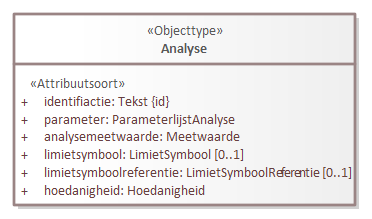
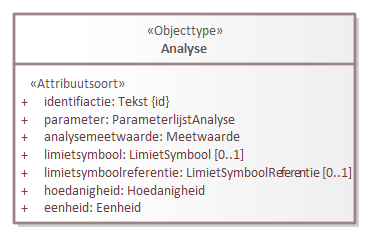
Conceptualmodel-MilieuhygienischbodemonderzoekSAD-0.2-1-20230126-20230516-114102

diff --git a/data/SAD-cat.msword.html b/data/SAD-cat.msword.html
@@ -15,7 +15,7 @@
    <body>
       <p>Conceptual model/Milieuhygienisch bodemonderzoek SAD/20230126</p>
       <p>Imvertor: 2.0.0</p>
-      <p>Model release: Conceptualmodel-MilieuhygienischbodemonderzoekSAD-0.2-1-20230126-20230511-090358</p>
+      <p>Model release: Conceptualmodel-MilieuhygienischbodemonderzoekSAD-0.2-1-20230126-20230516-114102</p>
       <hr>
       <section>
          <h1>Artikel 1 Definitie van registratieobject, entiteiten en attributen</h1>
@@ -65,7 +65,7 @@
          <section>
             <h2>Het domeinmodel</h2>
             <section id="">
-               <div class="imageinfo overview"><img src="Images/EAID_FABA90F8_223C_433d_BAE3_74F87B3DC220.png" usemap="#imagemap-EAID_FABA90F8_223C_433d_BAE3_74F87B3DC220" alt="Diagram &#xA;                        &#xA;                     "><map name="imagemap-EAID_FABA90F8_223C_433d_BAE3_74F87B3DC220"><area shape="rect" alt="Analyseproces" coords="831,2101,1002,2223" href="#graph_EAID_89FCADC6_B091_492b_94BD_37324C7637EA"><area shape="rect" alt="Analyse" coords="303,2066,645,2258" href="#graph_EAID_AE9CD58D_588C_44cf_A7B7_09EDB181B001"><area shape="rect" alt="Grondwateranalyse" coords="1385,1474,1610,1582" href="#graph_EAID_50237BC0_6FD9_482a_841F_A44137C00FCA"><area shape="rect" alt="Grondmonsteranalyse" coords="393,1124,550,1228" href="#graph_EAID_DFC0DB4F_7DC8_4920_917A_907819C6EC19"><area shape="rect" alt="Boorprofiel" coords="783,1266,1093,1386" href="#graph_EAID_6CF3D55E_1BD5_4108_BEA5_8B69EB2D2097"><area shape="rect" alt="Boorbeschrijving" coords="800,1078,1075,1187" href="#graph_EAID_080E44E6_527C_42db_BCF3_7400257377C2"><area shape="rect" alt="Veldmeting" coords="1831,1239,2084,1378" href="#graph_EAID_C348E314_A61B_43a0_AFED_083DA812EC5F"><area shape="rect" alt="Veldwaarneming" coords="1830,1043,2082,1187" href="#graph_EAID_A3A8A9F5_B12D_47e9_9D67_F12687999F0D"><area shape="rect" alt="Mengmonsteranalyse" coords="14,812,171,933" href="#graph_EAID_E7A3C99D_3348_4875_9BD5_4E0481E72C54"><area shape="rect" alt="Grondwatermonstername" coords="1356,1101,1639,1239" href="#graph_EAID_24B6DB20_4EA3_453f_B195_E642F22CC27C"><area shape="rect" alt="Grondmonstername" coords="344,776,602,969" href="#graph_EAID_8A8D6A0E_DAF9_415a_9AE7_09155A2C5869"><area shape="rect" alt="Peilbuis" coords="1296,774,1699,972" href="#graph_EAID_0075B243_E663_4ee7_9154_9D5DE12CCB21"><area shape="rect" alt="Bodemlaag" coords="790,1474,1085,1707" href="#graph_EAID_88CF9E45_3E0E_40da_96C1_2CDD80B69F6F"><area shape="rect" alt="Boring" coords="716,746,1152,998" href="#graph_EAID_40FFF5B9_99C5_4c21_9D72_A3D1DD3C857F"><area shape="rect" alt="Registratieobject" coords="782,7,1090,181" href="#graph_EAID_67DBE718_38E0_4ead_8649_72EA0B4A2355"><area shape="rect" alt="Bodemonderzoek" coords="669,262,1202,602" href="#graph_EAID_ABAADB49_C747_4775_A739_CC832CAD59F1"></map><p><b>Domeinmodel milieuhygienisch bodemonderzoek</b></p>
+               <div class="imageinfo overview"><img src="Images/EAID_FABA90F8_223C_433d_BAE3_74F87B3DC220.png" usemap="#imagemap-EAID_FABA90F8_223C_433d_BAE3_74F87B3DC220" alt="Diagram &#xA;                        &#xA;                     "><map name="imagemap-EAID_FABA90F8_223C_433d_BAE3_74F87B3DC220"><area shape="rect" alt="Analyseproces" coords="831,2111,1002,2232" href="#graph_EAID_89FCADC6_B091_492b_94BD_37324C7637EA"><area shape="rect" alt="Analyse" coords="303,2066,645,2276" href="#graph_EAID_AE9CD58D_588C_44cf_A7B7_09EDB181B001"><area shape="rect" alt="Grondwateranalyse" coords="1385,1474,1610,1582" href="#graph_EAID_50237BC0_6FD9_482a_841F_A44137C00FCA"><area shape="rect" alt="Grondmonsteranalyse" coords="393,1124,550,1228" href="#graph_EAID_DFC0DB4F_7DC8_4920_917A_907819C6EC19"><area shape="rect" alt="Boorprofiel" coords="783,1266,1093,1386" href="#graph_EAID_6CF3D55E_1BD5_4108_BEA5_8B69EB2D2097"><area shape="rect" alt="Boorbeschrijving" coords="800,1078,1075,1187" href="#graph_EAID_080E44E6_527C_42db_BCF3_7400257377C2"><area shape="rect" alt="Veldmeting" coords="1831,1239,2084,1378" href="#graph_EAID_C348E314_A61B_43a0_AFED_083DA812EC5F"><area shape="rect" alt="Veldwaarneming" coords="1830,1043,2082,1187" href="#graph_EAID_A3A8A9F5_B12D_47e9_9D67_F12687999F0D"><area shape="rect" alt="Mengmonsteranalyse" coords="14,812,171,933" href="#graph_EAID_E7A3C99D_3348_4875_9BD5_4E0481E72C54"><area shape="rect" alt="Grondwatermonstername" coords="1356,1101,1639,1239" href="#graph_EAID_24B6DB20_4EA3_453f_B195_E642F22CC27C"><area shape="rect" alt="Grondmonstername" coords="344,776,602,969" href="#graph_EAID_8A8D6A0E_DAF9_415a_9AE7_09155A2C5869"><area shape="rect" alt="Peilbuis" coords="1296,774,1699,972" href="#graph_EAID_0075B243_E663_4ee7_9154_9D5DE12CCB21"><area shape="rect" alt="Bodemlaag" coords="790,1474,1085,1707" href="#graph_EAID_88CF9E45_3E0E_40da_96C1_2CDD80B69F6F"><area shape="rect" alt="Boring" coords="716,746,1152,998" href="#graph_EAID_40FFF5B9_99C5_4c21_9D72_A3D1DD3C857F"><area shape="rect" alt="Registratieobject" coords="782,7,1090,181" href="#graph_EAID_67DBE718_38E0_4ead_8649_72EA0B4A2355"><area shape="rect" alt="Bodemonderzoek" coords="669,262,1202,602" href="#graph_EAID_ABAADB49_C747_4775_A739_CC832CAD59F1"></map><p><b>Domeinmodel milieuhygienisch bodemonderzoek</b></p>
                </div>
             </section>
          </section>
@@ -578,7 +578,7 @@
                            </tr>
                         </tbody>
                      </table>
-                     </section><a class="anchor" id="detail_d94218e3450"></a><section id="detail_d94218e3450">
+                     </section><a class="anchor" id="detail_d94655e3450"></a><section id="detail_d94655e3450">
                      <h4>  registratiegeschiedenis</h4>
                      <table style="width: 100%;">
                         <colgroup style="width: 30%;"></colgroup>
@@ -611,7 +611,7 @@
                            </tr>
                         </tbody>
                      </table>
-                  </section><a class="anchor" id="detail_d94218e3635"></a><section id="detail_d94218e3635">
+                  </section><a class="anchor" id="detail_d94655e3635"></a><section id="detail_d94655e3635">
                      <h4>  gestandaardiseerde locatie bodemonderzoek</h4>
                      <table style="width: 100%;">
                         <colgroup style="width: 30%;"></colgroup>
@@ -654,7 +654,7 @@
                            </tr>
                         </tbody>
                      </table>
-                  </section><a class="anchor" id="detail_d94218e3869"></a><section id="detail_d94218e3869">
+                  </section><a class="anchor" id="detail_d94655e3869"></a><section id="detail_d94655e3869">
                      <h4>  rapport</h4>
                      <table style="width: 100%;">
                         <colgroup style="width: 30%;"></colgroup>
@@ -1845,7 +1845,7 @@
                            </tr>
                         </tbody>
                      </table>
-                     </section><a class="anchor" id="detail_d94218e8500"></a><section id="detail_d94218e8500">
+                     </section><a class="anchor" id="detail_d94655e8500"></a><section id="detail_d94655e8500">
                      <h4>  gestandaardiseerde locatie boring</h4>
                      <table style="width: 100%;">
                         <colgroup style="width: 30%;"></colgroup>
@@ -1879,7 +1879,7 @@
                            </tr>
                         </tbody>
                      </table>
-                  </section><a class="anchor" id="detail_d94218e8685"></a><section id="detail_d94218e8685">
+                  </section><a class="anchor" id="detail_d94655e8685"></a><section id="detail_d94655e8685">
                      <h4>  aangeleverde verticale positie</h4>
                      <table style="width: 100%;">
                         <colgroup style="width: 30%;"></colgroup>
@@ -2311,7 +2311,7 @@
                            <tr>
                               <th>&nbsp;&nbsp;Naam</th>
                               <td>Meetwaarde 
-                                 </td>
+                                 3.3</td>
                            </tr>
                            <tr>
                               <th>&nbsp;&nbsp;Eenheid</th>
@@ -2807,7 +2807,7 @@
                            </tr>
                         </tbody>
                      </table>
-                     </section><a class="anchor" id="detail_d94218e11677"></a><section id="detail_d94218e11677">
+                     </section><a class="anchor" id="detail_d94655e11686"></a><section id="detail_d94655e11686">
                      <h4>  grond</h4>
                      <table style="width: 100%;">
                         <colgroup style="width: 30%;"></colgroup>
@@ -2840,7 +2840,7 @@
                            </tr>
                         </tbody>
                      </table>
-                  </section><a class="anchor" id="detail_d94218e11862"></a><section id="detail_d94218e11862">
+                  </section><a class="anchor" id="detail_d94655e11871"></a><section id="detail_d94655e11871">
                      <h4>  kleur</h4>
                      <table style="width: 100%;">
                         <colgroup style="width: 30%;"></colgroup>
@@ -2873,7 +2873,7 @@
                            </tr>
                         </tbody>
                      </table>
-                  </section><a class="anchor" id="detail_d94218e12047"></a><section id="detail_d94218e12047">
+                  </section><a class="anchor" id="detail_d94655e12056"></a><section id="detail_d94655e12056">
                      <h4>  bijzonderheid</h4>
                      <table style="width: 100%;">
                         <colgroup style="width: 30%;"></colgroup>
@@ -4231,7 +4231,7 @@
                            </tr>
                         </tbody>
                      </table>
-                     </section><a class="anchor" id="detail_d94218e17335"></a><section id="detail_d94218e17335">
+                     </section><a class="anchor" id="detail_d94655e17344"></a><section id="detail_d94655e17344">
                      <h4>  aangeleverde verticale positie</h4>
                      <table style="width: 100%;">
                         <colgroup style="width: 30%;"></colgroup>
@@ -4637,7 +4637,7 @@
                            </tr>
                         </tbody>
                      </table>
-                     </section><a class="anchor" id="detail_d94218e18790"></a><section id="detail_d94218e18790">
+                     </section><a class="anchor" id="detail_d94655e18799"></a><section id="detail_d94655e18799">
                      <h4>  kleur</h4>
                      <table style="width: 100%;">
                         <colgroup style="width: 30%;"></colgroup>
@@ -4897,7 +4897,7 @@
                   </section>
                </section><a class="anchor" id="graph_EAID_AE9CD58D_588C_44cf_A7B7_09EDB181B001"></a><a class="anchor" id="global_class_Model_Analyse"></a><section id="global_class_Model_Analyse">
                   <h3>   Analyse</h3>
-                  <div class="imageinfo "><img src="Images/EAID_824E65FB_FE5D_4caf_BB20_F5A295A0CD8B.png" usemap="#imagemap-EAID_824E65FB_FE5D_4caf_BB20_F5A295A0CD8B" alt="Diagram "><map name="imagemap-EAID_824E65FB_FE5D_4caf_BB20_F5A295A0CD8B"><area shape="rect" alt="Analyse" coords="14,14,356,206" href="#graph_EAID_AE9CD58D_588C_44cf_A7B7_09EDB181B001"></map><p><b></b></p>
+                  <div class="imageinfo "><img src="Images/EAID_824E65FB_FE5D_4caf_BB20_F5A295A0CD8B.png" usemap="#imagemap-EAID_824E65FB_FE5D_4caf_BB20_F5A295A0CD8B" alt="Diagram "><map name="imagemap-EAID_824E65FB_FE5D_4caf_BB20_F5A295A0CD8B"><area shape="rect" alt="Analyse" coords="14,14,356,224" href="#graph_EAID_AE9CD58D_588C_44cf_A7B7_09EDB181B001"></map><p><b></b></p>
                   </div>
                   <table style="width: 100%;">
                      <colgroup style="width: 30%;"></colgroup>
@@ -5236,6 +5236,48 @@
                                     in Stikstof' bij de parameter Nitraat (NO3). De waarde 'opgeloste fractie' of de korrelgroottefractie
                                     zijn voorbeelden van fracties van een parameter.</p>
                                  </td>
+                           </tr>
+                        </tbody>
+                     </table>
+                     </section><a class="anchor" id="detail_attribute_Model_Analyse_eenheid"></a><section id="detail_attribute_Model_Analyse_eenheid">
+                     <h4>  eenheid</h4>
+                     
+                     <table style="width: 100%;">
+                        <colgroup style="width: 30%;"></colgroup>
+                        <colgroup style="width: 70%;"></colgroup>
+                        <tbody>
+                           <tr>
+                              <th>Type gegeven</th>
+                              <td>Attribuut van Analyse</td>
+                           </tr>
+                           <tr>
+                              <th>Definitie</th>
+                              <td>
+                                 
+                                 <p>De dimensie van de grootheid waarin een parameter wordt uitgedrukt.</p>
+                                 </td>
+                           </tr>
+                           <tr>
+                              <th>Juridische status</th>
+                              <td>Authentiek</td>
+                           </tr>
+                           <tr>
+                              <th>Kardinaliteit</th>
+                              <td>1</td>
+                           </tr>
+                           <tr>
+                              <th>Domein</th>
+                              <td></td>
+                           </tr>
+                           <tr>
+                              <th>&nbsp;&nbsp;Naam</th>
+                              <td><a class="link" href="#detail_class_Model_Eenheid">
+                                    Eenheid
+                                    </a></td>
+                           </tr>
+                           <tr>
+                              <th>&nbsp;&nbsp;Type</th>
+                              <td>Waardelijst uitbreidbaar</td>
                            </tr>
                         </tbody>
                      </table>

diff --git a/data/SAD-cat.respec.html b/data/SAD-cat.respec.html
@@ -43,7 +43,7 @@
       </section>
    <section id="">
       <h2>Het domeinmodel   </h2>
-      <div class="imageinfo overview"><img src="data/Images/EAID_FABA90F8_223C_433d_BAE3_74F87B3DC220.png" usemap="#imagemap-EAID_FABA90F8_223C_433d_BAE3_74F87B3DC220" alt="Diagram &#xA;                        &#xA;                     "><map name="imagemap-EAID_FABA90F8_223C_433d_BAE3_74F87B3DC220"><area shape="rect" alt="Analyseproces" coords="831,2101,1002,2223" href="#graph_EAID_89FCADC6_B091_492b_94BD_37324C7637EA"><area shape="rect" alt="Analyse" coords="303,2066,645,2258" href="#graph_EAID_AE9CD58D_588C_44cf_A7B7_09EDB181B001"><area shape="rect" alt="Grondwateranalyse" coords="1385,1474,1610,1582" href="#graph_EAID_50237BC0_6FD9_482a_841F_A44137C00FCA"><area shape="rect" alt="Grondmonsteranalyse" coords="393,1124,550,1228" href="#graph_EAID_DFC0DB4F_7DC8_4920_917A_907819C6EC19"><area shape="rect" alt="Boorprofiel" coords="783,1266,1093,1386" href="#graph_EAID_6CF3D55E_1BD5_4108_BEA5_8B69EB2D2097"><area shape="rect" alt="Boorbeschrijving" coords="800,1078,1075,1187" href="#graph_EAID_080E44E6_527C_42db_BCF3_7400257377C2"><area shape="rect" alt="Veldmeting" coords="1831,1239,2084,1378" href="#graph_EAID_C348E314_A61B_43a0_AFED_083DA812EC5F"><area shape="rect" alt="Veldwaarneming" coords="1830,1043,2082,1187" href="#graph_EAID_A3A8A9F5_B12D_47e9_9D67_F12687999F0D"><area shape="rect" alt="Mengmonsteranalyse" coords="14,812,171,933" href="#graph_EAID_E7A3C99D_3348_4875_9BD5_4E0481E72C54"><area shape="rect" alt="Grondwatermonstername" coords="1356,1101,1639,1239" href="#graph_EAID_24B6DB20_4EA3_453f_B195_E642F22CC27C"><area shape="rect" alt="Grondmonstername" coords="344,776,602,969" href="#graph_EAID_8A8D6A0E_DAF9_415a_9AE7_09155A2C5869"><area shape="rect" alt="Peilbuis" coords="1296,774,1699,972" href="#graph_EAID_0075B243_E663_4ee7_9154_9D5DE12CCB21"><area shape="rect" alt="Bodemlaag" coords="790,1474,1085,1707" href="#graph_EAID_88CF9E45_3E0E_40da_96C1_2CDD80B69F6F"><area shape="rect" alt="Boring" coords="716,746,1152,998" href="#graph_EAID_40FFF5B9_99C5_4c21_9D72_A3D1DD3C857F"><area shape="rect" alt="Registratieobject" coords="782,7,1090,181" href="#graph_EAID_67DBE718_38E0_4ead_8649_72EA0B4A2355"><area shape="rect" alt="Bodemonderzoek" coords="669,262,1202,602" href="#graph_EAID_ABAADB49_C747_4775_A739_CC832CAD59F1"></map><p><b>Domeinmodel milieuhygienisch bodemonderzoek</b></p>
+      <div class="imageinfo overview"><img src="data/Images/EAID_FABA90F8_223C_433d_BAE3_74F87B3DC220.png" usemap="#imagemap-EAID_FABA90F8_223C_433d_BAE3_74F87B3DC220" alt="Diagram &#xA;                        &#xA;                     "><map name="imagemap-EAID_FABA90F8_223C_433d_BAE3_74F87B3DC220"><area shape="rect" alt="Analyseproces" coords="831,2111,1002,2232" href="#graph_EAID_89FCADC6_B091_492b_94BD_37324C7637EA"><area shape="rect" alt="Analyse" coords="303,2066,645,2276" href="#graph_EAID_AE9CD58D_588C_44cf_A7B7_09EDB181B001"><area shape="rect" alt="Grondwateranalyse" coords="1385,1474,1610,1582" href="#graph_EAID_50237BC0_6FD9_482a_841F_A44137C00FCA"><area shape="rect" alt="Grondmonsteranalyse" coords="393,1124,550,1228" href="#graph_EAID_DFC0DB4F_7DC8_4920_917A_907819C6EC19"><area shape="rect" alt="Boorprofiel" coords="783,1266,1093,1386" href="#graph_EAID_6CF3D55E_1BD5_4108_BEA5_8B69EB2D2097"><area shape="rect" alt="Boorbeschrijving" coords="800,1078,1075,1187" href="#graph_EAID_080E44E6_527C_42db_BCF3_7400257377C2"><area shape="rect" alt="Veldmeting" coords="1831,1239,2084,1378" href="#graph_EAID_C348E314_A61B_43a0_AFED_083DA812EC5F"><area shape="rect" alt="Veldwaarneming" coords="1830,1043,2082,1187" href="#graph_EAID_A3A8A9F5_B12D_47e9_9D67_F12687999F0D"><area shape="rect" alt="Mengmonsteranalyse" coords="14,812,171,933" href="#graph_EAID_E7A3C99D_3348_4875_9BD5_4E0481E72C54"><area shape="rect" alt="Grondwatermonstername" coords="1356,1101,1639,1239" href="#graph_EAID_24B6DB20_4EA3_453f_B195_E642F22CC27C"><area shape="rect" alt="Grondmonstername" coords="344,776,602,969" href="#graph_EAID_8A8D6A0E_DAF9_415a_9AE7_09155A2C5869"><area shape="rect" alt="Peilbuis" coords="1296,774,1699,972" href="#graph_EAID_0075B243_E663_4ee7_9154_9D5DE12CCB21"><area shape="rect" alt="Bodemlaag" coords="790,1474,1085,1707" href="#graph_EAID_88CF9E45_3E0E_40da_96C1_2CDD80B69F6F"><area shape="rect" alt="Boring" coords="716,746,1152,998" href="#graph_EAID_40FFF5B9_99C5_4c21_9D72_A3D1DD3C857F"><area shape="rect" alt="Registratieobject" coords="782,7,1090,181" href="#graph_EAID_67DBE718_38E0_4ead_8649_72EA0B4A2355"><area shape="rect" alt="Bodemonderzoek" coords="669,262,1202,602" href="#graph_EAID_ABAADB49_C747_4775_A739_CC832CAD59F1"></map><p><b>Domeinmodel milieuhygienisch bodemonderzoek</b></p>
       </div>
    </section>
    <section id="">
@@ -554,7 +554,7 @@
                   </tr>
                </tbody>
             </table>
-            </section><a class="anchor" id="detail_d94218e3450"></a><section id="detail_d94218e3450">
+            </section><a class="anchor" id="detail_d94655e3450"></a><section id="detail_d94655e3450">
             <h4>  registratiegeschiedenis</h4>
             <table style="width: 100%;">
                <colgroup style="width: 30%;"></colgroup>
@@ -587,7 +587,7 @@
                   </tr>
                </tbody>
             </table>
-         </section><a class="anchor" id="detail_d94218e3635"></a><section id="detail_d94218e3635">
+         </section><a class="anchor" id="detail_d94655e3635"></a><section id="detail_d94655e3635">
             <h4>  gestandaardiseerde locatie bodemonderzoek</h4>
             <table style="width: 100%;">
                <colgroup style="width: 30%;"></colgroup>
@@ -630,7 +630,7 @@
                   </tr>
                </tbody>
             </table>
-         </section><a class="anchor" id="detail_d94218e3869"></a><section id="detail_d94218e3869">
+         </section><a class="anchor" id="detail_d94655e3869"></a><section id="detail_d94655e3869">
             <h4>  rapport</h4>
             <table style="width: 100%;">
                <colgroup style="width: 30%;"></colgroup>
@@ -1821,7 +1821,7 @@
                   </tr>
                </tbody>
             </table>
-            </section><a class="anchor" id="detail_d94218e8500"></a><section id="detail_d94218e8500">
+            </section><a class="anchor" id="detail_d94655e8500"></a><section id="detail_d94655e8500">
             <h4>  gestandaardiseerde locatie boring</h4>
             <table style="width: 100%;">
                <colgroup style="width: 30%;"></colgroup>
@@ -1855,7 +1855,7 @@
                   </tr>
                </tbody>
             </table>
-         </section><a class="anchor" id="detail_d94218e8685"></a><section id="detail_d94218e8685">
+         </section><a class="anchor" id="detail_d94655e8685"></a><section id="detail_d94655e8685">
             <h4>  aangeleverde verticale positie</h4>
             <table style="width: 100%;">
                <colgroup style="width: 30%;"></colgroup>
@@ -2287,7 +2287,7 @@
                   <tr>
                      <th>&nbsp;&nbsp;Naam</th>
                      <td>Meetwaarde 
-                        </td>
+                        3.3</td>
                   </tr>
                   <tr>
                      <th>&nbsp;&nbsp;Eenheid</th>
@@ -2783,7 +2783,7 @@
                   </tr>
                </tbody>
             </table>
-            </section><a class="anchor" id="detail_d94218e11677"></a><section id="detail_d94218e11677">
+            </section><a class="anchor" id="detail_d94655e11686"></a><section id="detail_d94655e11686">
             <h4>  grond</h4>
             <table style="width: 100%;">
                <colgroup style="width: 30%;"></colgroup>
@@ -2816,7 +2816,7 @@
                   </tr>
                </tbody>
             </table>
-         </section><a class="anchor" id="detail_d94218e11862"></a><section id="detail_d94218e11862">
+         </section><a class="anchor" id="detail_d94655e11871"></a><section id="detail_d94655e11871">
             <h4>  kleur</h4>
             <table style="width: 100%;">
                <colgroup style="width: 30%;"></colgroup>
@@ -2849,7 +2849,7 @@
                   </tr>
                </tbody>
             </table>
-         </section><a class="anchor" id="detail_d94218e12047"></a><section id="detail_d94218e12047">
+         </section><a class="anchor" id="detail_d94655e12056"></a><section id="detail_d94655e12056">
             <h4>  bijzonderheid</h4>
             <table style="width: 100%;">
                <colgroup style="width: 30%;"></colgroup>
@@ -4207,7 +4207,7 @@
                   </tr>
                </tbody>
             </table>
-            </section><a class="anchor" id="detail_d94218e17335"></a><section id="detail_d94218e17335">
+            </section><a class="anchor" id="detail_d94655e17344"></a><section id="detail_d94655e17344">
             <h4>  aangeleverde verticale positie</h4>
             <table style="width: 100%;">
                <colgroup style="width: 30%;"></colgroup>
@@ -4613,7 +4613,7 @@
                   </tr>
                </tbody>
             </table>
-            </section><a class="anchor" id="detail_d94218e18790"></a><section id="detail_d94218e18790">
+            </section><a class="anchor" id="detail_d94655e18799"></a><section id="detail_d94655e18799">
             <h4>  kleur</h4>
             <table style="width: 100%;">
                <colgroup style="width: 30%;"></colgroup>
@@ -4873,7 +4873,7 @@
          </section>
       </section><a class="anchor" id="graph_EAID_AE9CD58D_588C_44cf_A7B7_09EDB181B001"></a><a class="anchor" id="global_class_Model_Analyse"></a><section id="global_class_Model_Analyse">
          <h3>   Analyse</h3>
-         <div class="imageinfo "><img src="data/Images/EAID_824E65FB_FE5D_4caf_BB20_F5A295A0CD8B.png" usemap="#imagemap-EAID_824E65FB_FE5D_4caf_BB20_F5A295A0CD8B" alt="Diagram "><map name="imagemap-EAID_824E65FB_FE5D_4caf_BB20_F5A295A0CD8B"><area shape="rect" alt="Analyse" coords="14,14,356,206" href="#graph_EAID_AE9CD58D_588C_44cf_A7B7_09EDB181B001"></map><p><b></b></p>
+         <div class="imageinfo "><img src="data/Images/EAID_824E65FB_FE5D_4caf_BB20_F5A295A0CD8B.png" usemap="#imagemap-EAID_824E65FB_FE5D_4caf_BB20_F5A295A0CD8B" alt="Diagram "><map name="imagemap-EAID_824E65FB_FE5D_4caf_BB20_F5A295A0CD8B"><area shape="rect" alt="Analyse" coords="14,14,356,224" href="#graph_EAID_AE9CD58D_588C_44cf_A7B7_09EDB181B001"></map><p><b></b></p>
          </div>
          <table style="width: 100%;">
             <colgroup style="width: 30%;"></colgroup>
@@ -5212,6 +5212,48 @@
                            in Stikstof' bij de parameter Nitraat (NO3). De waarde 'opgeloste fractie' of de korrelgroottefractie
                            zijn voorbeelden van fracties van een parameter.</p>
                         </td>
+                  </tr>
+               </tbody>
+            </table>
+            </section><a class="anchor" id="detail_attribute_Model_Analyse_eenheid"></a><section id="detail_attribute_Model_Analyse_eenheid">
+            <h4>  eenheid</h4>
+            
+            <table style="width: 100%;">
+               <colgroup style="width: 30%;"></colgroup>
+               <colgroup style="width: 70%;"></colgroup>
+               <tbody>
+                  <tr>
+                     <th>Type gegeven</th>
+                     <td>Attribuut van Analyse</td>
+                  </tr>
+                  <tr>
+                     <th>Definitie</th>
+                     <td>
+                        
+                        <p>De dimensie van de grootheid waarin een parameter wordt uitgedrukt.</p>
+                        </td>
+                  </tr>
+                  <tr>
+                     <th>Juridische status</th>
+                     <td>Authentiek</td>
+                  </tr>
+                  <tr>
+                     <th>Kardinaliteit</th>
+                     <td>1</td>
+                  </tr>
+                  <tr>
+                     <th>Domein</th>
+                     <td></td>
+                  </tr>
+                  <tr>
+                     <th>&nbsp;&nbsp;Naam</th>
+                     <td><a class="link" href="#detail_class_Model_Eenheid">
+                           Eenheid
+                           </a></td>
+                  </tr>
+                  <tr>
+                     <th>&nbsp;&nbsp;Type</th>
+                     <td>Waardelijst uitbreidbaar</td>
                   </tr>
                </tbody>
             </table>
